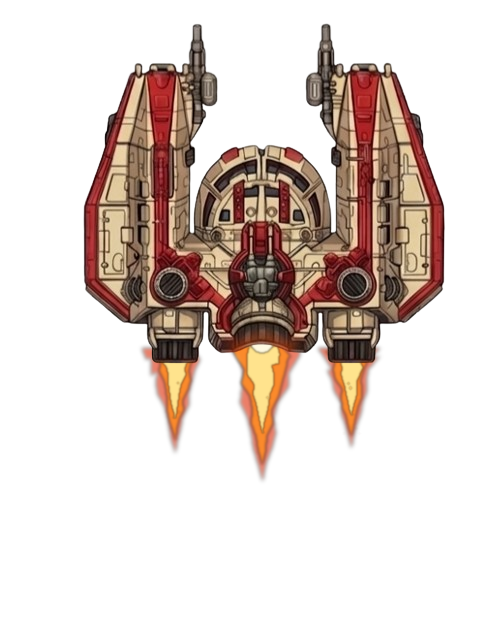
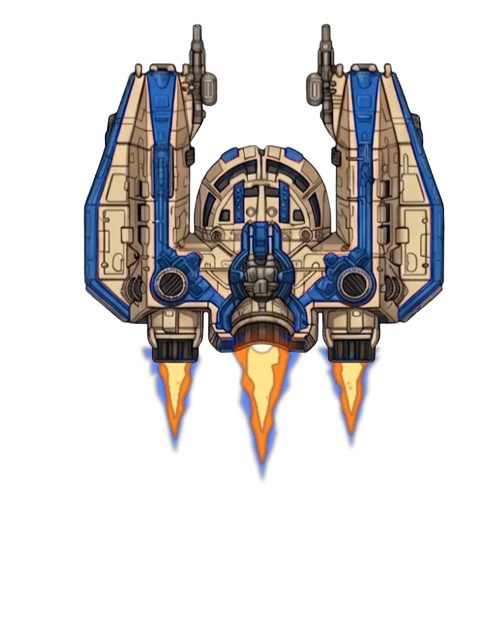
Recolor Sentinel from red to blue paint
Hue-shifts the red armor panels across all 13 sentinel sprite frames
(8 alive + 5 dead) to blue via an HSV transform: pixels in the red
hue band get their hue shifted while saturation/value are left
untouched, so shading and highlights carry over unchanged. Cream/tan
trim, black linework, and the orange thruster flame fall outside
that hue band and are unaffected.

Sentinel's bullet_kind reverts to BlueLaser to match its new paint
(it had briefly been switched to RedLaser for the old red ship).

diff --git a/src/game/entities/ship/ship_kind.rs b/src/game/entities/ship/ship_kind.rs
@@ -42,7 +42,7 @@ impl ShipKind {
     pub fn bullet_kind(&self) -> BulletKind {
         match self {
             ShipKind::Vanguard => BulletKind::BlueLaser,
-            ShipKind::Sentinel => BulletKind::RedLaser,
+            ShipKind::Sentinel => BulletKind::BlueLaser,
             ShipKind::Viper => BulletKind::RedLaser,
         }
     }
